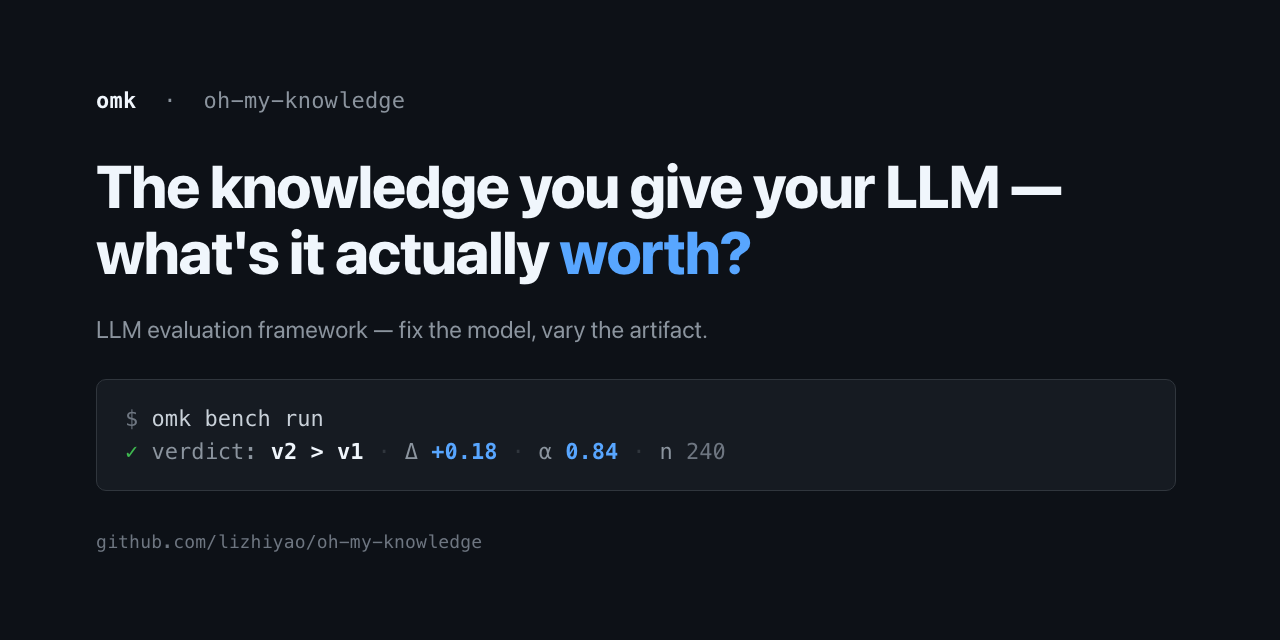
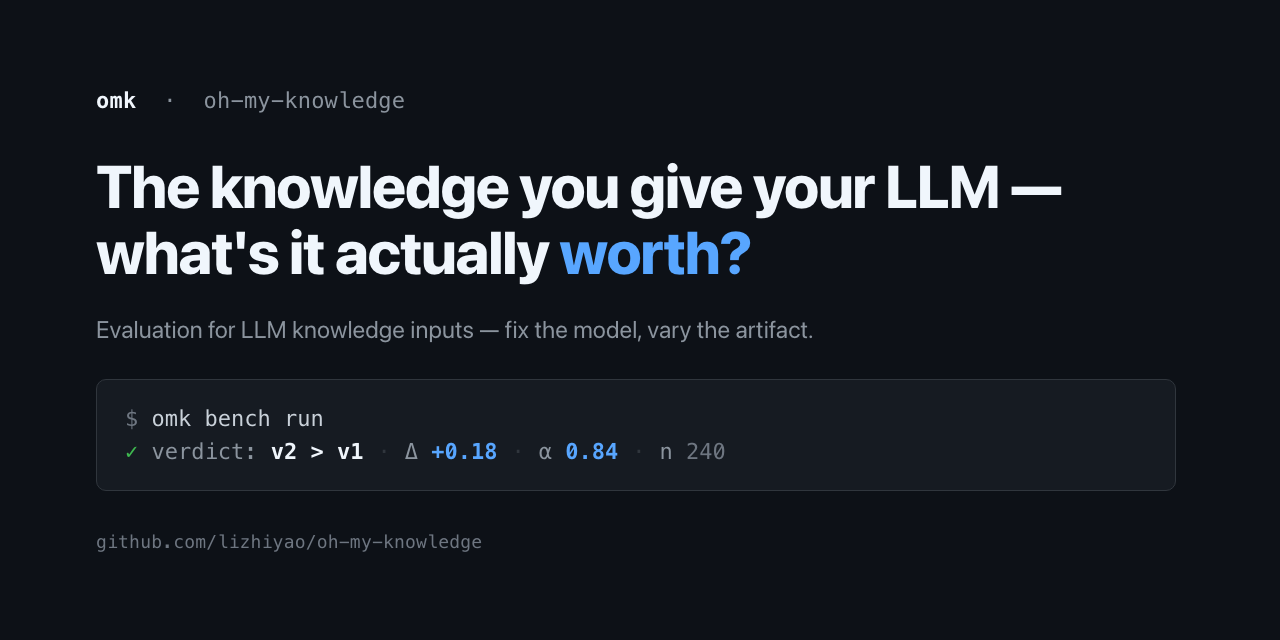
chore(repo): OG 图副标题对齐新 tagline — Evaluation for LLM knowledge inputs
跟 PR #66 的 tagline 升级保持一致。OG 图副标题从 "LLM evaluation framework — fix the model, vary the artifact." 改成 "Evaluation for LLM knowledge inputs — fix the model, vary the artifact."。

OG 图视觉空间有限, 例子列表 (prompts/RAG/skills/agent workflows) 不放进副标题, 那部分留给 npm description / README 头部。

Changed region(s): [[0.0625, 0.5, 0.625, 0.5312]]

diff --git a/assets/social-preview.html b/assets/social-preview.html
@@ -92,7 +92,7 @@
 
     <div class="middle">
       <h1>The knowledge you give your LLM&nbsp;—<br/>what's it actually <span class="accent">worth?</span></h1>
-      <div class="subtitle">LLM evaluation framework — fix the model, vary the artifact.</div>
+      <div class="subtitle">Evaluation for LLM knowledge inputs — fix the model, vary the artifact.</div>
 
       <div class="terminal">
         <div class="term-line"><span class="prompt">$</span> <span class="cmd">omk bench run</span></div>
